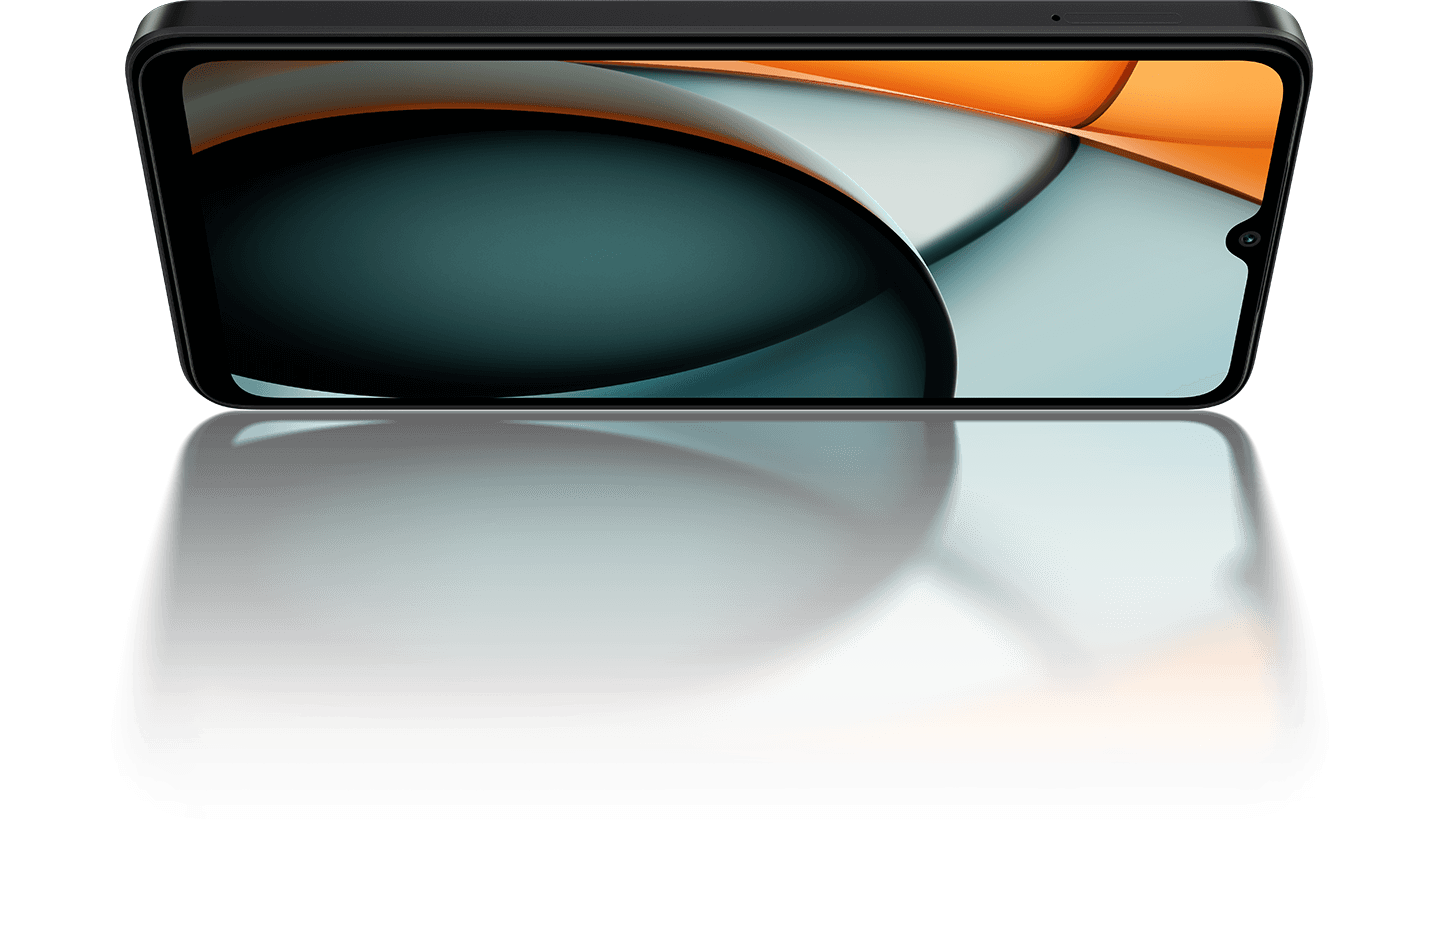
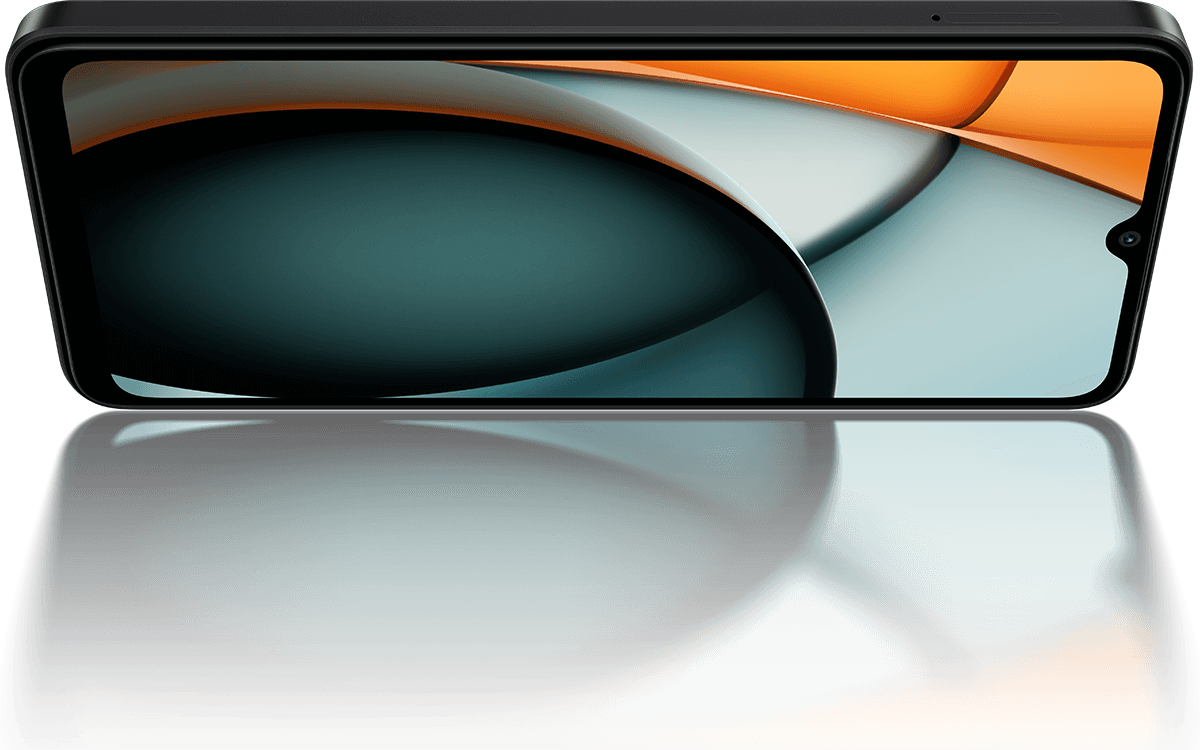
vs01

diff --git a/css/main.css b/css/main.css
@@ -234,7 +234,6 @@ height: 55rem;
 position: relative;
 }
 
-
 .box-gradient-2{
 background: linear-gradient(35deg, rgba(117,237,212,1) 12%, rgba(99,149,220,1) 45%, rgba(76,170,232,1) 70%, rgba(44,225,255,1) 96%);
 width: 100%;
@@ -243,13 +242,14 @@ position: relative;
 }
 
 .box-gradient-03 {
-    background:  url(../media/phone-front.png) no-repeat bottom,
-                linear-gradient(35deg, rgba(117,237,212,1) 12%, rgba(99,149,220,1) 45%, rgba(76,170,232,1) 70%, rgba(44,225,255,1) 96%);
-                background-size: 100% auto; /* ajusta o tamanho da imagem */
-    width: 100%;
-    height: 55rem;
-    position: relative;
+background:  url(../media/phone-front.png) no-repeat bottom,
+linear-gradient(35deg, rgba(117,237,212,1) 12%, rgba(99,149,220,1) 45%, rgba(76,170,232,1) 70%, rgba(44,225,255,1) 96%);
+background-size: 100% auto; /* ajusta o tamanho da imagem */
+width: 100%;
+height: 55rem;
+position: relative;
 }
+
 
 .title-blue-dark {
 -webkit-text-fill-color: transparent;

diff --git a/index.html b/index.html
@@ -175,9 +175,14 @@
 
                 </div>
 
-                <img src="./media/phone.png" alt="" class="img-fluid" style="width: 60rem; margin: 0 auto; display: block; padding-top: 9rem;">
-
-                <p class="p-center txt-branco">*Dados testados em Laboratórios Internos da Xiaomi, os resultados reais podem variar.</p>
+                <div style="position: relative; display: flex; flex-direction: column;
+                flex-wrap: nowrap;
+                align-content: center;
+                justify-content: center;
+                align-items: center;">
+                    <div><img src="./media/phone.png" alt="" class="img-fluid" style="width: 50rem; margin: 0 auto; display: block; padding-top: 2rem;"></div>
+                    <div><p class="p-center txt-branco">*Dados testados em Laboratórios Internos da Xiaomi, os resultados reais podem variar.</p></div>
+                </div>
 
             </div>
 
